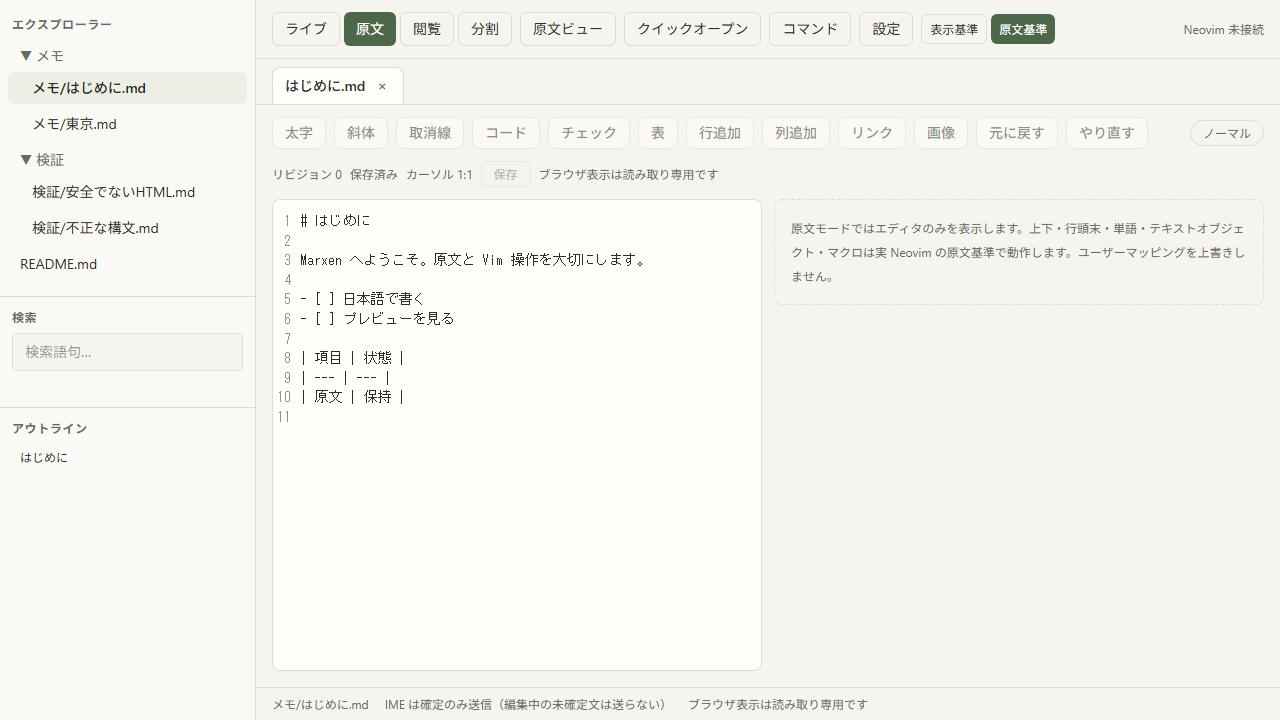
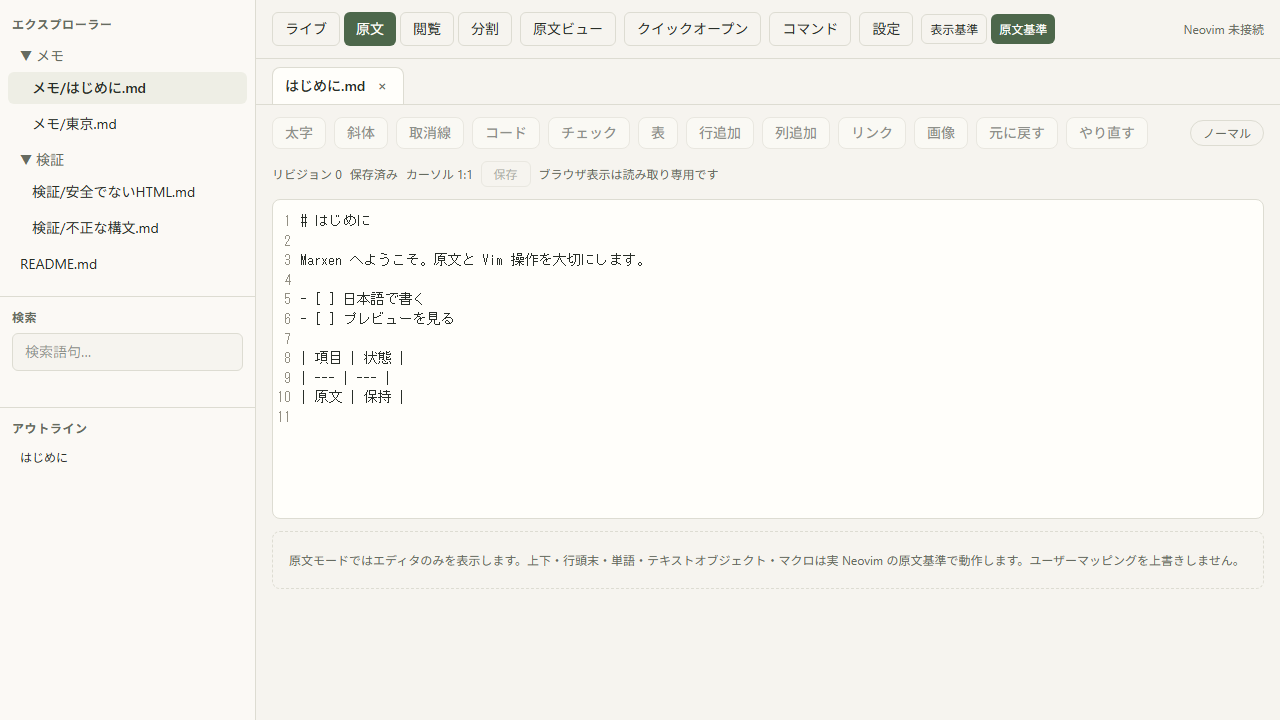
feat(issue-5): inline live layout, final report, renderer interface record
- Live mode stacks editor over preview inline; side-by-side reserved for split
- Report holds final app behavior and verification only; ADR-0051 updated
- Cursor-echo prop proposal recorded to Run (renderer dispatch completed)

(cherry picked from commit 7b5874fe83668892f59741afb036aa48bdbd1c89)

diff --git a/src/components/shell/WorkspaceShell.tsx b/src/components/shell/WorkspaceShell.tsx
@@ -1383,7 +1383,9 @@ export function WorkspaceShell() {
           )}
         </div>
 
-        <main className="grid min-h-0 flex-1 gap-3 px-4 pb-4 md:grid-cols-2" aria-label="編集領域">
+        {/* Live stacks editor over its rendered preview (inline live
+            renderer); only split lays two panes side by side. */}
+        <main className={`grid min-h-0 flex-1 gap-3 px-4 pb-4 ${viewMode === "split" ? "md:grid-cols-2" : ""}`} aria-label="編集領域">
           {/* Primary editor stays mounted per document to retain scroll/cursor. */}
           {active ? (
             <div
@@ -1415,7 +1417,7 @@ export function WorkspaceShell() {
             </div>
           )}
           {viewMode === "read" && active && (
-            <div className="min-h-80 md:col-span-2" ref={previewWrap}>
+            <div className="min-h-80" ref={previewWrap}>
               <MarkdownPreview text={active.text} />
             </div>
           )}

diff --git a/docs/reports/issue-5-ui.md b/docs/reports/issue-5-ui.md
@@ -13,8 +13,8 @@
 - Vim キー経路: シェル層でキー入力を Neovim 記法に写像し、文書ごとの直列キューで `nvim_input` に送る。通常・挿入・選択・演算子・コマンドラインを扱い、単語・テキストオブジェクト・マクロは原文基準のまま動く。表示・原文の移動基準を選択でき、CodeMirror 側に Vim バインドを置かないためユーザーマッピングを上書きしない。IME は確定のみ送信し、通常モードの IME キーを移動として横取りしない。UTF-16 範囲の送受信と UTF-8 変換は Rust が行う。
 - 外部変更・競合・復旧・画像: 外部変更・削除の帯表示と再読込、保存競合の本文保持表示、復旧一覧の復元・破棄、相対画像の読込表示と貼付挿入（範囲付き改訂検証）を実装した。
 - 原文ビュー・設定: `fetch_grid` の raw redraw 更新を描画し、vimrc / _vimrc / init.vim / init.lua の選択・評価エラー表示・明示再起動（本文・改訂・未保存維持、Undo・モード初期化）を行う。
-- 日本語シェル: tree、tabs、quick open（Ctrl+P）、全文検索置換、outline、command palette（Ctrl+Shift+P）、テーマ、live / source / read / split（主エディタ維持で scroll / cursor 保持）。
-- 描画 #6 との境界面はカーソル反映の追加 prop のみとし、装飾・ウィジェット・合成処理には触れない。AI パネルは提供待ちのため組み込まない。IPC が無いブラウザ表示は読み取り専用に留め、保存成功や改訂増加を表示しない。
+- 日本語シェル: tree、tabs、quick open（Ctrl+P）、全文検索置換、outline、command palette（Ctrl+Shift+P）、テーマ、live / source / read / split。live は原文エディタの下に描画を並べるインライン形式とし、左右分割は分割表示だけが使う。主エディタは文書ごとに維持し scroll / cursor を保つ。
+- 描画との境界面はカーソル反映の追加 prop のみとし、装飾・ウィジェット・合成処理には触れない（描画担当の完了済み Dispatch へ直接連絡はできず、Run 宛に提案を記録した）。AI パネルは本ブランチに存在しないため組み込んでいない。IPC が無いブラウザ表示は読み取り専用に留め、保存成功や改訂増加を表示しない。
 
 ## ローカル結果
 
@@ -25,23 +25,22 @@
 | `./node_modules/.bin/tsc --noEmit` | 成功 |
 | `./node_modules/.bin/vitest run` | 成功。文書 ID・改訂の直送、直列化、stale 再同期、Vim キー写像、範囲置換、読み取り専用拒否（模擬 IPC）、範囲編集・UTF-16 境界・IME 確定・outline・検索・grid 解析・プレビュー消毒（`tests/fixtures/malformed-markdown.md`、`unsafe-html.md` の実物読み込みを含む） |
 | `./node_modules/.bin/playwright test --project chromium` | 成功。foundation 3（未接続の真実表示・読み取り専用・狭幅）と editor 5（モード維持・不正 fixture の安全表示・tree/tabs/quick-open/search/outline/palette/theme・原文ビュー・保存成功の非模擬） |
-| UI 画像 | 成功。`docs/reports/issue-5-ui/live.png`、`read.png`、`source.png`、`split.png`、`palette.png`、`settings-dark.png` を E2E で生成 |
+| UI 画像 | 成功。`docs/reports/issue-5-ui/live.png`、`read.png`、`source.png`、`split.png`、`palette.png`、`settings-dark.png` を最終コードの E2E で生成 |
 | `npm run contracts:check` | 成功。`src/shared/contracts.ts` に差分なし |
 | `npm run test:bundling` | 成功。3 tests |
-| `cargo test --no-default-features --locked` | 成功（lib・contracts・workspace・neovim の実 Neovim 統合を含む） |
+| `cargo test --no-default-features --locked` | 成功（lib 8・contracts 11・実 Neovim 9+5・workspace 21 を含む） |
 | `cargo clippy --locked --no-default-features --all-targets -- -D warnings` | 成功 |
 | `cargo check --locked`（desktop 既定） | 成功 |
 | `cargo fmt -- --check` | 成功（Rust 無変更のため） |
 | `npm run build` | 成功 |
 
-## 未実施・制約
+## 未検証
 
-- Windows WebView2 + TSF、macOS WKWebView + NSTextInput、Linux WebKitGTK + IBus/Fcitx における実 IME のキー・確定・表示は未実施。Chromium の E2E と headless embed の成功から推定しない。詳細は ADR-0051 に記録した。
-- macOS arm64 / x64 と Linux x64 の native compile・Neovim smoke・package 操作、署名 / 公証は未実施。4 native CI は Issue #2 の workflow を用いる。
-- デスクトップ実機の GUI 通し操作（実フォルダー・実ファイル・実 WebView）は未実施。デスクトップ経路は Vitest の模擬 IPC と Rust の実 Neovim 統合で検証し、ブラウザ E2E は読み取り専用の代替にしない。
-- プレビューの GFM 完全体（5 Alerts、脚注、MathJax、Mermaid、HTML sanitize 完全体、GeoJSON / TopoJSON / ASCII STL、Shiki、Leaflet / Three.js ローカル配布）は Issue #6 の責務とし、本プレビューは最小描画に留める。
-- AI パネル（Issue #7/#8）の組み込みは提供待ちのため未実施。
+- Windows WebView2 + TSF、macOS WKWebView + NSTextInput、Linux WebKitGTK + IBus/Fcitx における実 IME のキー・確定・表示。各 OS の実 WebView 確認は別途行う。
+- macOS arm64 / x64 と Linux x64 の native compile・Neovim smoke・package 操作、署名 / 公証。
+- デスクトップ実機の GUI 通し操作（実フォルダー・実ファイル・実 WebView）。デスクトップ経路は Vitest の模擬 IPC と Rust の実 Neovim 統合で検証した。
+- プレビューの GFM 完全体は Issue #6 の範囲であり、本プレビューは最小描画に留める。
 
-## 意思決定と引き継ぎ
+## 決定記録
 
-判断は `docs/adr/ADR-0051-文書レジストリとVimキー経路でシェルを実接続する.md` に記録した。Issue #6（描画基盤）はカーソル反映 prop を境界面に装飾・ウィジェットを受け持ち、Issue #7/#8 は提供モジュールの到着後に組み込む。
+判断は `docs/adr/ADR-0051-文書レジストリとVimキー経路でシェルを実接続する.md` に記録した。
